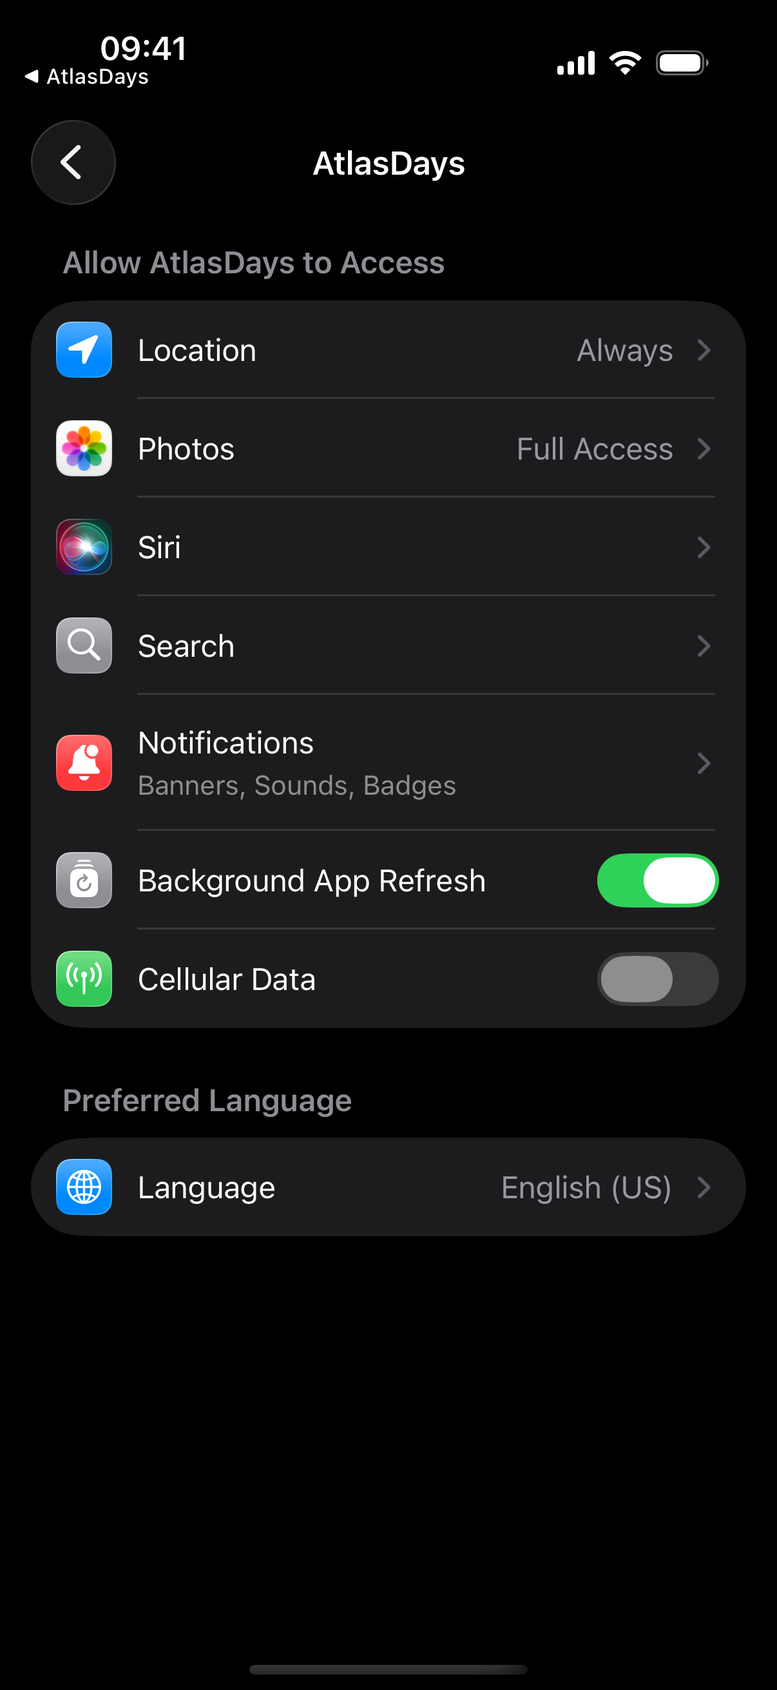
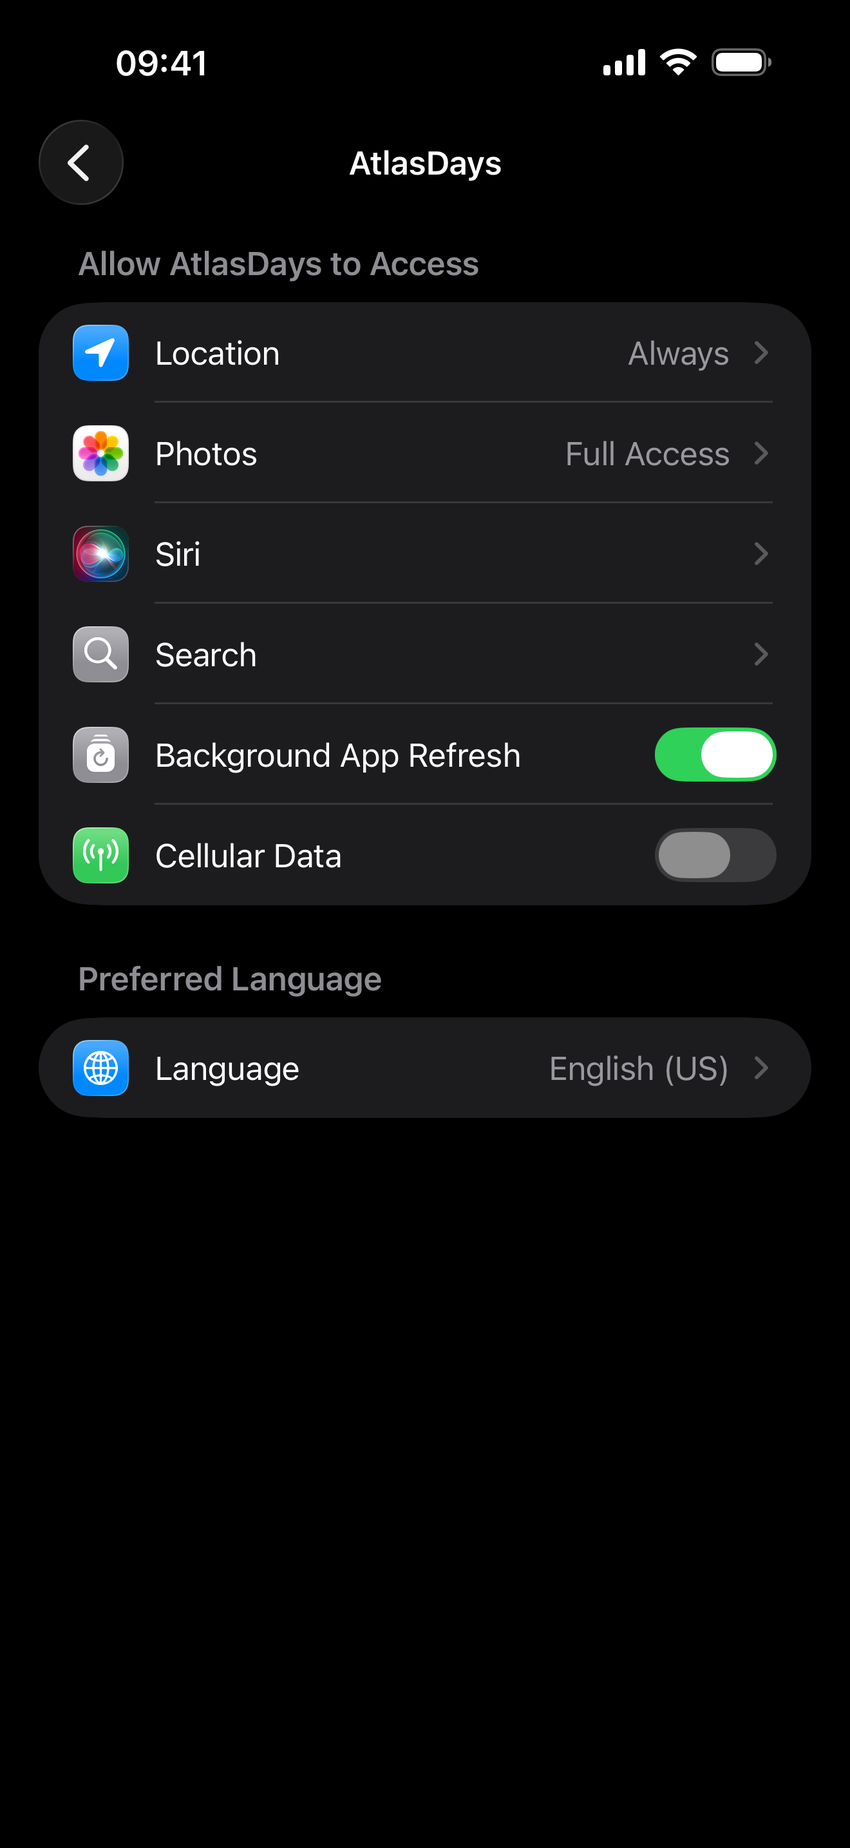
Help Center audit: dead slots, redundant crops, and copy fixes
Screenshots

Two slots pointed at files that were never captured, so they rendered as
invisible HTML comments: timeline-and-calendar/undo and, at p0,
auto-detect-trips/auto-detect-suggestion. Both harness legs are no-ops. Running
timeline-undo and timeline-suggestion produces the plain Timeline with no undo
toast and no suggestion card, so the slots cannot be filled from the website
side. Removed both and wrote the prose to carry the explanation instead.

Two images repeated a screen the same article already showed in full, which is
the redundancy the screenshot guide singles out. timeline-and-calendar's
us-breakdown was the top of the Timeline shown a few lines above, cut mid-row.
widgets' widget-sizes was the same widget-gallery scenario, side-cropped to
1206px and cut through the 85/90 figure. Deleted both.

privacy-location-and-sync mixed a 1206px hand capture with 1320px harness
shots, so its images rendered at different sizes down the page. Recaptured the
iOS Settings page on the iPhone 17 Pro Max as a top-anchored screen band. The
Photos and Location rows only exist once those permissions are granted, so the
manifest entry records the simctl step. Notifications still cannot be forced,
so the alt text now describes what the screen shows rather than what it did.

Twelve articles stacked shot markers with no prose between them.
history-and-import was the worst: four images dumped at the end of the Transit
[…]

diff --git a/_site-src/content/help/timeline-and-calendar.html b/_site-src/content/help/timeline-and-calendar.html
@@ -11,22 +11,20 @@
       <li>Optionally add purposes or notes, then tap <strong>Save</strong>.</li>
     </ol>
     <figure class="help-shot help-shot-screen"><img src="/assets/article-images/help/timeline-and-calendar/timeline-list.webp" alt="Timeline list containing past and ongoing trips" width="1320" height="2868" loading="lazy" decoding="async" /></figure>
-    <figure class="help-shot help-shot-screen"><img src="/assets/article-images/help/timeline-and-calendar/add-edit.webp" alt="Edit Trip sheet showing country and exact dates" width="1320" height="2868" loading="lazy" decoding="async" /></figure>
 
     <h2>Edit a trip</h2>
     <p>Tap a trip in the Timeline list or its entry in Calendar view. Change the country, state, dates, purposes, notes, or <a href="/help/history-and-import">Transit</a> status, then save. Related totals refresh from the edited record.</p>
+    <figure class="help-shot help-shot-screen"><img src="/assets/article-images/help/timeline-and-calendar/add-edit.webp" alt="Edit Trip sheet showing country and exact dates" width="1320" height="2868" loading="lazy" decoding="async" /></figure>
 
     <h2>Delete a trip</h2>
-    <p>Open the trip and choose <strong>Delete Trip</strong>, or use the delete action available from the Timeline row. AtlasDays briefly offers Undo after a Timeline deletion.</p>
-    <!-- SCREENSHOT_DEFERRED: undo | timeline-undo -->
+    <p>Open the trip and choose <strong>Delete Trip</strong>, or use the delete action available from the Timeline row. After a Timeline deletion an <strong>Undo</strong> button appears at the bottom of the screen for a few seconds. Once it disappears the deletion stands, so restore the trip by adding it again.</p>
 
     <h2>Switch between List and Calendar</h2>
     <p><strong>List</strong> is fastest for reviewing trips chronologically. <strong>Calendar</strong> makes gaps, overlaps, and trips spanning weeks easier to see. Both views edit the same records.</p>
     <figure class="help-shot help-shot-screen"><img src="/assets/article-images/help/timeline-and-calendar/calendar.webp" alt="Calendar view with trips spanning several dates" width="1320" height="2868" loading="lazy" decoding="async" /></figure>
 
     <h2>United States stays</h2>
-    <p>A United States trip without a state still contributes to country-level US totals. Add the state when you need state-specific trackers or the US state breakdown.</p>
-    <figure class="help-shot help-shot-control"><img src="/assets/article-images/help/timeline-and-calendar/us-breakdown.webp" alt="United States state breakdown in the Timeline" width="1320" height="1730" loading="lazy" decoding="async" /></figure>
+    <p>A United States trip without a state still contributes to country-level US totals. The Timeline row shows the state beneath the <a href="/help/languages">country name</a> once you add one. Add the state when you need state-specific trackers or the US state breakdown.</p>
 
     <section class="if-needed">
       <h2>If a trip cannot be saved</h2>

diff --git a/_site-src/content/help/privacy-location-and-sync.html b/_site-src/content/help/privacy-location-and-sync.html
@@ -15,12 +15,17 @@
     <h2>Notifications</h2>
     <p>Notifications are used for enabled Auto-Detect events and <a href="/help/smart-alerts">Smart Alerts</a>. You can disable the related feature in AtlasDays or change notification permission in iOS Settings.</p>
 
-    <h2>Analytics</h2>
-    <p>AtlasDays may collect limited anonymous product signals to understand feature use and reliability. These signals are not your travel history and are not used to build an advertising profile.</p>
+    <h2>Review or revoke access</h2>
+    <p>Open iOS Settings for AtlasDays to change Photos, Location, and Notifications permission at any time. A permission only appears in that list once AtlasDays has asked for it, so a feature you have never opened will not be listed yet.</p>
+    <figure class="help-shot help-shot-control"><img src="/assets/article-images/help/privacy-location-and-sync/privacy-permissions.webp" alt="iOS Settings page for AtlasDays listing its Location, Photos, and other permissions" width="1320" height="1880" loading="lazy" decoding="async" /></figure>
+
+    <h2>Usage statistics</h2>
+    <p>AtlasDays sends anonymous usage statistics to an independent analytics provider in the European Union, so it can see how the app is used and where it can be better. There is no account and nothing that identifies you personally.</p>
+    <p>These statistics cover actions taken in the app, your settings, basic device and app information, and your approximate country. Counts, such as how many trips you have, are sent as ranges rather than exact numbers. They never include your trips, dates, notes, photos, or coordinates.</p>
+    <p>AtlasDays carries no advertising, uses no advertising identifier, and asks for no tracking permission. The <a href="/privacy">Privacy Policy</a> is the full statement.</p>
     <figure class="help-shot help-shot-screen"><img src="/assets/article-images/help/privacy-location-and-sync/privacy-overview.webp" alt="AtlasDays privacy overview showing data and permission summaries" width="1320" height="2868" loading="lazy" decoding="async" /></figure>
 
     <section class="if-needed">
-      <h2>Review or revoke access</h2>
-      <p>Open iOS Settings for AtlasDays to change Photos, Location, and Notifications permission. Features that depend on revoked access stop working until it is allowed again.</p>
-    <figure class="help-shot help-shot-control"><img src="/assets/article-images/help/privacy-location-and-sync/privacy-permissions.webp" alt="iOS Settings page for AtlasDays showing Photos, Location, and Notifications" width="1206" height="1700" loading="lazy" decoding="async" /></figure>
+      <h2>If a feature stops working</h2>
+      <p>Check the permission it depends on in iOS Settings. Photo Import needs Photos access, Auto-Detect needs Always location, and alerts need notifications. Each keeps working normally once access is allowed again.</p>
     </section>

diff --git a/_site-src/content/help/flighty-import.html b/_site-src/content/help/flighty-import.html
@@ -4,7 +4,7 @@
 <p class="article-answer">Export your flight history from Flighty as CSV, select it in AtlasDays, and review the proposed trips before saving.</p>
 
     <h2>Export from Flighty</h2>
-    <p>Use Flighty’s <a href="/help/export-and-reports">export</a> feature to create a CSV containing the flights you want to import. Save it somewhere available in the iOS Files picker.</p>
+    <p>Export your flight history from Flighty as CSV and save it somewhere the iOS Files picker can reach, such as iCloud Drive or On My iPhone.</p>
 
     <h2>Import into AtlasDays</h2>
     <ol>
@@ -15,15 +15,15 @@
       <li>Save only the rows you want in <a href="/help/timeline-and-calendar">Timeline</a>.</li>
     </ol>
     <figure class="help-shot help-shot-screen"><img src="/assets/article-images/help/flighty-import/flighty-setup.webp" alt="Import from Flighty setup screen" width="1320" height="2868" loading="lazy" decoding="async" /></figure>
-    <figure class="help-shot help-shot-screen"><img src="/assets/article-images/help/flighty-import/flighty-review.webp" alt="Flighty Import preview with stays, transit, and warnings" width="1320" height="2868" loading="lazy" decoding="async" /></figure>
 
     <h2>How flights become trips</h2>
     <p>Arrival and departure airports provide evidence for a stay, while connections may become Transit. Overnight and closely connected flights can require judgment, so compare the preview with your actual entry into each country.</p>
+    <figure class="help-shot help-shot-screen"><img src="/assets/article-images/help/flighty-import/flighty-review.webp" alt="Flighty Import preview with stays, transit, and warnings" width="1320" height="2868" loading="lazy" decoding="async" /></figure>
 
     <h2>Review US states</h2>
     <p>When airport information supports a US state, AtlasDays can propose it. Confirm the state before saving if you rely on state-specific tracking.</p>
 
     <section class="if-needed">
       <h2>If the file is rejected</h2>
-      <p>Create a fresh Flighty CSV export and select that original file. A spreadsheet that has resaved or rearranged the export may no longer match Flighty’s format.</p>
+      <p>Create a fresh Flighty CSV <a href="/help/export-and-reports">export</a> and select that original file. A spreadsheet that has resaved or rearranged the export may no longer match Flighty’s format.</p>
     </section>

diff --git a/_site-src/content/help/history-and-import.html b/_site-src/content/help/history-and-import.html
@@ -11,15 +11,18 @@
 
     <h2>Year</h2>
     <p>Choose <strong>Year</strong> when you know the year but not the calendar dates. A year-only trip marks the place as visited but contributes no numeric days.</p>
+    <figure class="help-shot help-shot-control help-shot-landscape"><img src="/assets/article-images/help/history-and-import/mode-year.webp" alt="Trip editor with Year precision selected" width="1320" height="1070" loading="lazy" decoding="async" /></figure>
 
     <h2>Unknown</h2>
     <p>Choose <strong>Unknown</strong> when even the year is uncertain. This is useful for a country list or map, not for compliance calculations.</p>
+    <figure class="help-shot help-shot-control help-shot-landscape"><img src="/assets/article-images/help/history-and-import/mode-unknown.webp" alt="Trip editor with Unknown precision selected" width="1320" height="1070" loading="lazy" decoding="async" /></figure>
 
     <h2>Transit</h2>
     <p>Choose <strong>Transit</strong> when you did not enter the country. Transit contributes zero days and does not mark the country as visited.</p>
-    <figure class="help-shot help-shot-control help-shot-landscape"><img src="/assets/article-images/help/history-and-import/mode-year.webp" alt="Trip editor with Year precision selected" width="1320" height="1070" loading="lazy" decoding="async" /></figure>
-    <figure class="help-shot help-shot-control help-shot-landscape"><img src="/assets/article-images/help/history-and-import/mode-unknown.webp" alt="Trip editor with Unknown precision selected" width="1320" height="1070" loading="lazy" decoding="async" /></figure>
     <figure class="help-shot help-shot-control help-shot-landscape"><img src="/assets/article-images/help/history-and-import/mode-transit.webp" alt="Trip editor with Transit selected" width="1320" height="1070" loading="lazy" decoding="async" /></figure>
+
+    <h2>All five modes in one place</h2>
+    <p>The mode selector in the trip editor holds every option, so you can change a trip's precision later without recreating it.</p>
     <figure class="help-shot help-shot-screen"><img src="/assets/article-images/help/history-and-import/mode-selector.webp" alt="Trip mode selector showing Exact Dates, Year, Unknown, and Transit" width="1320" height="2868" loading="lazy" decoding="async" /></figure>
 
     <h2>Choose conservatively</h2>

diff --git a/_site-src/content/help/widgets.html b/_site-src/content/help/widgets.html
@@ -7,18 +7,17 @@
     <ol>
       <li>Long-press an empty area of the Home Screen until it enters editing mode.</li>
       <li>Tap <strong>+</strong> and search for <strong>AtlasDays</strong>.</li>
-      <li>Choose Tracker or World Map and swipe through the available sizes.</li>
+      <li>Choose Tracker or World Map, then swipe through the available sizes.</li>
       <li>Tap <strong>Add Widget</strong> and place it.</li>
     </ol>
     <figure class="help-shot help-shot-screen"><img src="/assets/article-images/help/widgets/widget-gallery.webp" alt="iOS widget gallery showing AtlasDays Tracker and World Map widgets" width="1206" height="2622" loading="lazy" decoding="async" /></figure>
-    <figure class="help-shot help-shot-control help-shot-landscape"><img src="/assets/article-images/help/widgets/widget-sizes.webp" alt="AtlasDays widget sizes in the iOS gallery" width="1206" height="660" loading="lazy" decoding="async" /></figure>
 
     <h2>Choose a tracker</h2>
     <p>Long-press a placed Tracker widget, choose <strong>Edit Widget</strong>, and select the tracker. Each widget remembers its own selection, so several trackers can appear together.</p>
     <figure class="help-shot help-shot-control"><img src="/assets/article-images/help/widgets/widget-edit.webp" alt="Edit Widget sheet with the tracker picker" width="1206" height="1250" loading="lazy" decoding="async" /></figure>
 
     <h2>Understand refresh timing</h2>
-    <p>AtlasDays writes a new widget snapshot when relevant data changes, while iOS decides when the Home Screen redraws it. Opening AtlasDays after an install or major edit helps provide current widget data.</p>
+    <p>AtlasDays writes a new widget snapshot when relevant data changes, and iOS decides when the Home Screen redraws it. Open AtlasDays once after installing it or after a large edit so the widget has current data to draw.</p>
 
     <h2>Free and Pro layouts</h2>
     <p>The small Tracker Status widget and all World Map sizes are available with the free app. Medium and large Tracker Trend layouts, including charts and <a href="/help/plan-a-trip">forecasts</a>, require <a href="/help/atlasdays-pro">AtlasDays Pro</a>.</p>

diff --git a/_site-src/content/help/create-a-tracker.html b/_site-src/content/help/create-a-tracker.html
@@ -12,6 +12,7 @@
       <li>Save the tracker.</li>
     </ol>
     <figure class="help-shot help-shot-screen"><img src="/assets/article-images/help/create-a-tracker/category-picker.webp" alt="Add Tracker category picker showing Residence, Schengen, Visa and Entry Limits, Travel Goal, US State, and Custom" width="1320" height="2868" loading="lazy" decoding="async" /></figure>
+    <p>The category you pick decides which presets you are offered next.</p>
     <figure class="help-shot help-shot-screen"><img src="/assets/article-images/help/create-a-tracker/preset-picker.webp" alt="Tracker preset picker with available rules for the chosen category" width="1320" height="2868" loading="lazy" decoding="async" /></figure>
 
     <h2>Understand the window</h2>
@@ -28,7 +29,7 @@
     <figure class="help-shot help-shot-screen"><img src="/assets/article-images/help/create-a-tracker/configured-editor.webp" alt="Configured tracker editor showing places, window, and limit" width="1320" height="2868" loading="lazy" decoding="async" /></figure>
 
     <h2>Presets are starting configurations</h2>
-    <p>Presets save setup time, but the official rule still controls. Confirm that the preset matches your nationality, permission, purpose, and current legal situation.</p>
+    <p>A preset saves setup time. It does not change the rule you are actually subject to, so confirm it matches your nationality, permission, purpose, and current situation before relying on the number.</p>
 
     <div class="callout"><p><strong>Free AtlasDays includes one tracker.</strong> <a href="/help/atlasdays-pro">AtlasDays Pro</a> adds unlimited trackers and <a href="/help/smart-alerts">Smart Alerts</a>.</p></div>
 

diff --git a/_site-src/content/help/languages.html b/_site-src/content/help/languages.html
@@ -9,11 +9,11 @@
       <li>Choose the app interface language.</li>
       <li>Follow the restart instruction when shown so the interface reloads consistently.</li>
     </ol>
+    <figure class="help-shot help-shot-screen"><img src="/assets/article-images/help/languages/language-settings.webp" alt="Language settings showing interface and country-name choices" width="1320" height="2868" loading="lazy" decoding="async" /></figure>
 
     <h2>Choose country names separately</h2>
-    <p>Under the same screen, choose <strong>Country Names</strong>. It can follow the app language or use another supported naming language. Screens update as they reload.</p>
+    <p>On the same screen, choose <strong>Country Names</strong>. It can follow the app language or use a different supported language, which is useful when you read the interface in one language but want country names in another.</p>
     <figure class="help-shot help-shot-control help-shot-landscape"><img src="/assets/article-images/help/languages/language-country.webp" alt="Country Names language picker" width="1320" height="1010" loading="lazy" decoding="async" /></figure>
-    <figure class="help-shot help-shot-screen"><img src="/assets/article-images/help/languages/language-settings.webp" alt="Language settings showing interface and country-name choices" width="1320" height="2868" loading="lazy" decoding="async" /></figure>
 
     <h2>Exports and share cards</h2>
     <p><a href="/help/export-and-reports">Spreadsheet</a>, PDF, and share-card screens can offer their own language choice. Changing that output language does not change the app interface.</p>

diff --git a/_site-src/content/help/csv-import.html b/_site-src/content/help/csv-import.html
@@ -12,13 +12,13 @@
       <li>Import the rows you accept.</li>
     </ol>
     <figure class="help-shot help-shot-screen"><img src="/assets/article-images/help/csv-import/csv-setup.webp" alt="CSV Import setup and example-file controls" width="1320" height="2868" loading="lazy" decoding="async" /></figure>
-    <figure class="help-shot help-shot-screen"><img src="/assets/article-images/help/csv-import/csv-review.webp" alt="CSV Import preview containing valid, invalid, duplicate, and overlap rows" width="1320" height="2868" loading="lazy" decoding="async" /></figure>
 
     <h2>Fix errors in the source file</h2>
     <p>The preview reports a row number and reason when it cannot resolve a country, state, date, or required header. Correct that row in the CSV and import the file again.</p>
 
     <h2>Warnings are review prompts</h2>
     <p>A duplicate can repeat a trip already in <a href="/help/timeline-and-calendar">Timeline</a>. An overlap can be legitimate or can represent two versions of the same stay. Check the dates and places rather than accepting every row automatically.</p>
+    <figure class="help-shot help-shot-screen"><img src="/assets/article-images/help/csv-import/csv-review.webp" alt="CSV Import preview containing valid, invalid, duplicate, and overlap rows" width="1320" height="2868" loading="lazy" decoding="async" /></figure>
 
     <h2>Only saving changes your Timeline</h2>
     <p>Selecting a file and viewing the preview does not add trips. AtlasDays writes the accepted rows only after the final import action.</p>

diff --git a/_site-src/content/help/appearance-and-personalization.html b/_site-src/content/help/appearance-and-personalization.html
@@ -5,11 +5,11 @@
 
     <h2>Choose a theme</h2>
     <p>Open <strong>Settings → Appearance</strong> and choose the available light, dark, or device-following behavior.</p>
+    <figure class="help-shot help-shot-screen"><img src="/assets/article-images/help/appearance-and-personalization/appearance-settings.webp" alt="Appearance and personalization settings with theme and accent choices" width="1320" height="2868" loading="lazy" decoding="async" /></figure>
 
     <h2>Personalize AtlasDays</h2>
     <p>Use the personalization settings to select an accent color, background wash, and app icon. The map uses the chosen visual treatment while preserving the same highlighted places.</p>
     <figure class="help-shot help-shot-control"><img src="/assets/article-images/help/appearance-and-personalization/appearance-icon.webp" alt="App icon picker" width="1320" height="2470" loading="lazy" decoding="async" /></figure>
-    <figure class="help-shot help-shot-screen"><img src="/assets/article-images/help/appearance-and-personalization/appearance-settings.webp" alt="Appearance and personalization settings with theme and accent choices" width="1320" height="2868" loading="lazy" decoding="async" /></figure>
 
     <h2>Widgets follow their supported appearance</h2>
     <p>AtlasDays prepares <a href="/help/widgets">widget</a> map snapshots for light and dark appearances. iOS controls which version appears with the Home Screen environment.</p>

diff --git a/_site-src/content/help/photo-import.html b/_site-src/content/help/photo-import.html
@@ -11,10 +11,10 @@
       <li>Review the proposed trips before saving.</li>
     </ol>
     <figure class="help-shot help-shot-screen"><img src="/assets/article-images/help/photo-import/photo-setup.webp" alt="Photo Import setup with date-range options" width="1320" height="2868" loading="lazy" decoding="async" /></figure>
-    <figure class="help-shot help-shot-control"><img src="/assets/article-images/help/photo-import/photo-scan.webp" alt="Photo Import scan in progress" width="1320" height="2100" loading="lazy" decoding="async" /></figure>
 
     <h2>What AtlasDays examines</h2>
     <p>AtlasDays uses photo timestamps and embedded location coordinates when available. The scan and country resolution happen on your device; the photos themselves are not uploaded to AtlasDays.</p>
+    <figure class="help-shot help-shot-control"><img src="/assets/article-images/help/photo-import/photo-scan.webp" alt="Photo Import scan in progress" width="1320" height="2100" loading="lazy" decoding="async" /></figure>
 
     <h2>Review every proposal</h2>
     <p>Check the country or US state, start and end dates, and any duplicate or overlap warning. A photo’s location is evidence, not proof of the exact moment you crossed a border.</p>

diff --git a/_site-src/content/help/auto-detect-trips.html b/_site-src/content/help/auto-detect-trips.html
@@ -13,8 +13,7 @@
     <figure class="help-shot help-shot-screen"><img src="/assets/article-images/help/auto-detect-trips/auto-detect-settings.webp" alt="Auto-Detect Trips settings with location and notification controls" width="1320" height="2868" loading="lazy" decoding="async" /></figure>
 
     <h2>Review suggestions</h2>
-    <p>A detection is evidence of movement, not a finished legal travel record. Open its Timeline suggestion, confirm the country or US state and boundary dates, then accept, edit, or ignore it.</p>
-    <!-- SCREENSHOT_DEFERRED: auto-detect-suggestion | timeline-suggestion -->
+    <p>A suggestion appears in Timeline as a card above your saved trips, showing the detected country and the dates AtlasDays inferred. It is evidence of movement, not a finished travel record. Open it, confirm the country or US state and the boundary dates, then accept, edit, or ignore it. Ignoring one does not stop you adding the trip by hand later.</p>
 
     <h2>Ignore places you do not want suggested</h2>
     <p>Add countries to the Ignore list when recurring border proximity produces suggestions you never need. Pro users can also ignore individual US states. Ignored places can still be added manually.</p>

diff --git a/_site-src/content/help/icloud-sync-and-restore.html b/_site-src/content/help/icloud-sync-and-restore.html
@@ -13,7 +13,7 @@
     <figure class="help-shot help-shot-screen"><img src="/assets/article-images/help/icloud-sync-and-restore/icloud-status.webp" alt="iCloud Sync settings showing status, last activity, and data count" width="1320" height="2868" loading="lazy" decoding="async" /></figure>
 
     <h2>After reinstalling AtlasDays</h2>
-    <p>Cloud-backed trips and trackers can return after the app reconnects to its iCloud store. Device-specific permissions, <a href="/help/widgets">widget</a> configuration, and some preferences may need to be set again.</p>
+    <p>Trips and trackers held in iCloud come back once the app reconnects to its iCloud store, which can take a few minutes on first launch. Device-specific permissions, <a href="/help/widgets">widget</a> configuration, and some preferences have to be set again.</p>
 
     <h2>Understand the status</h2>
     <p>The iCloud Sync screen reports whether AtlasDays is checking, syncing, waiting, synced, not signed in, or using local storage. Enabling or disabling sync can require closing AtlasDays from the app switcher and reopening it.</p>
